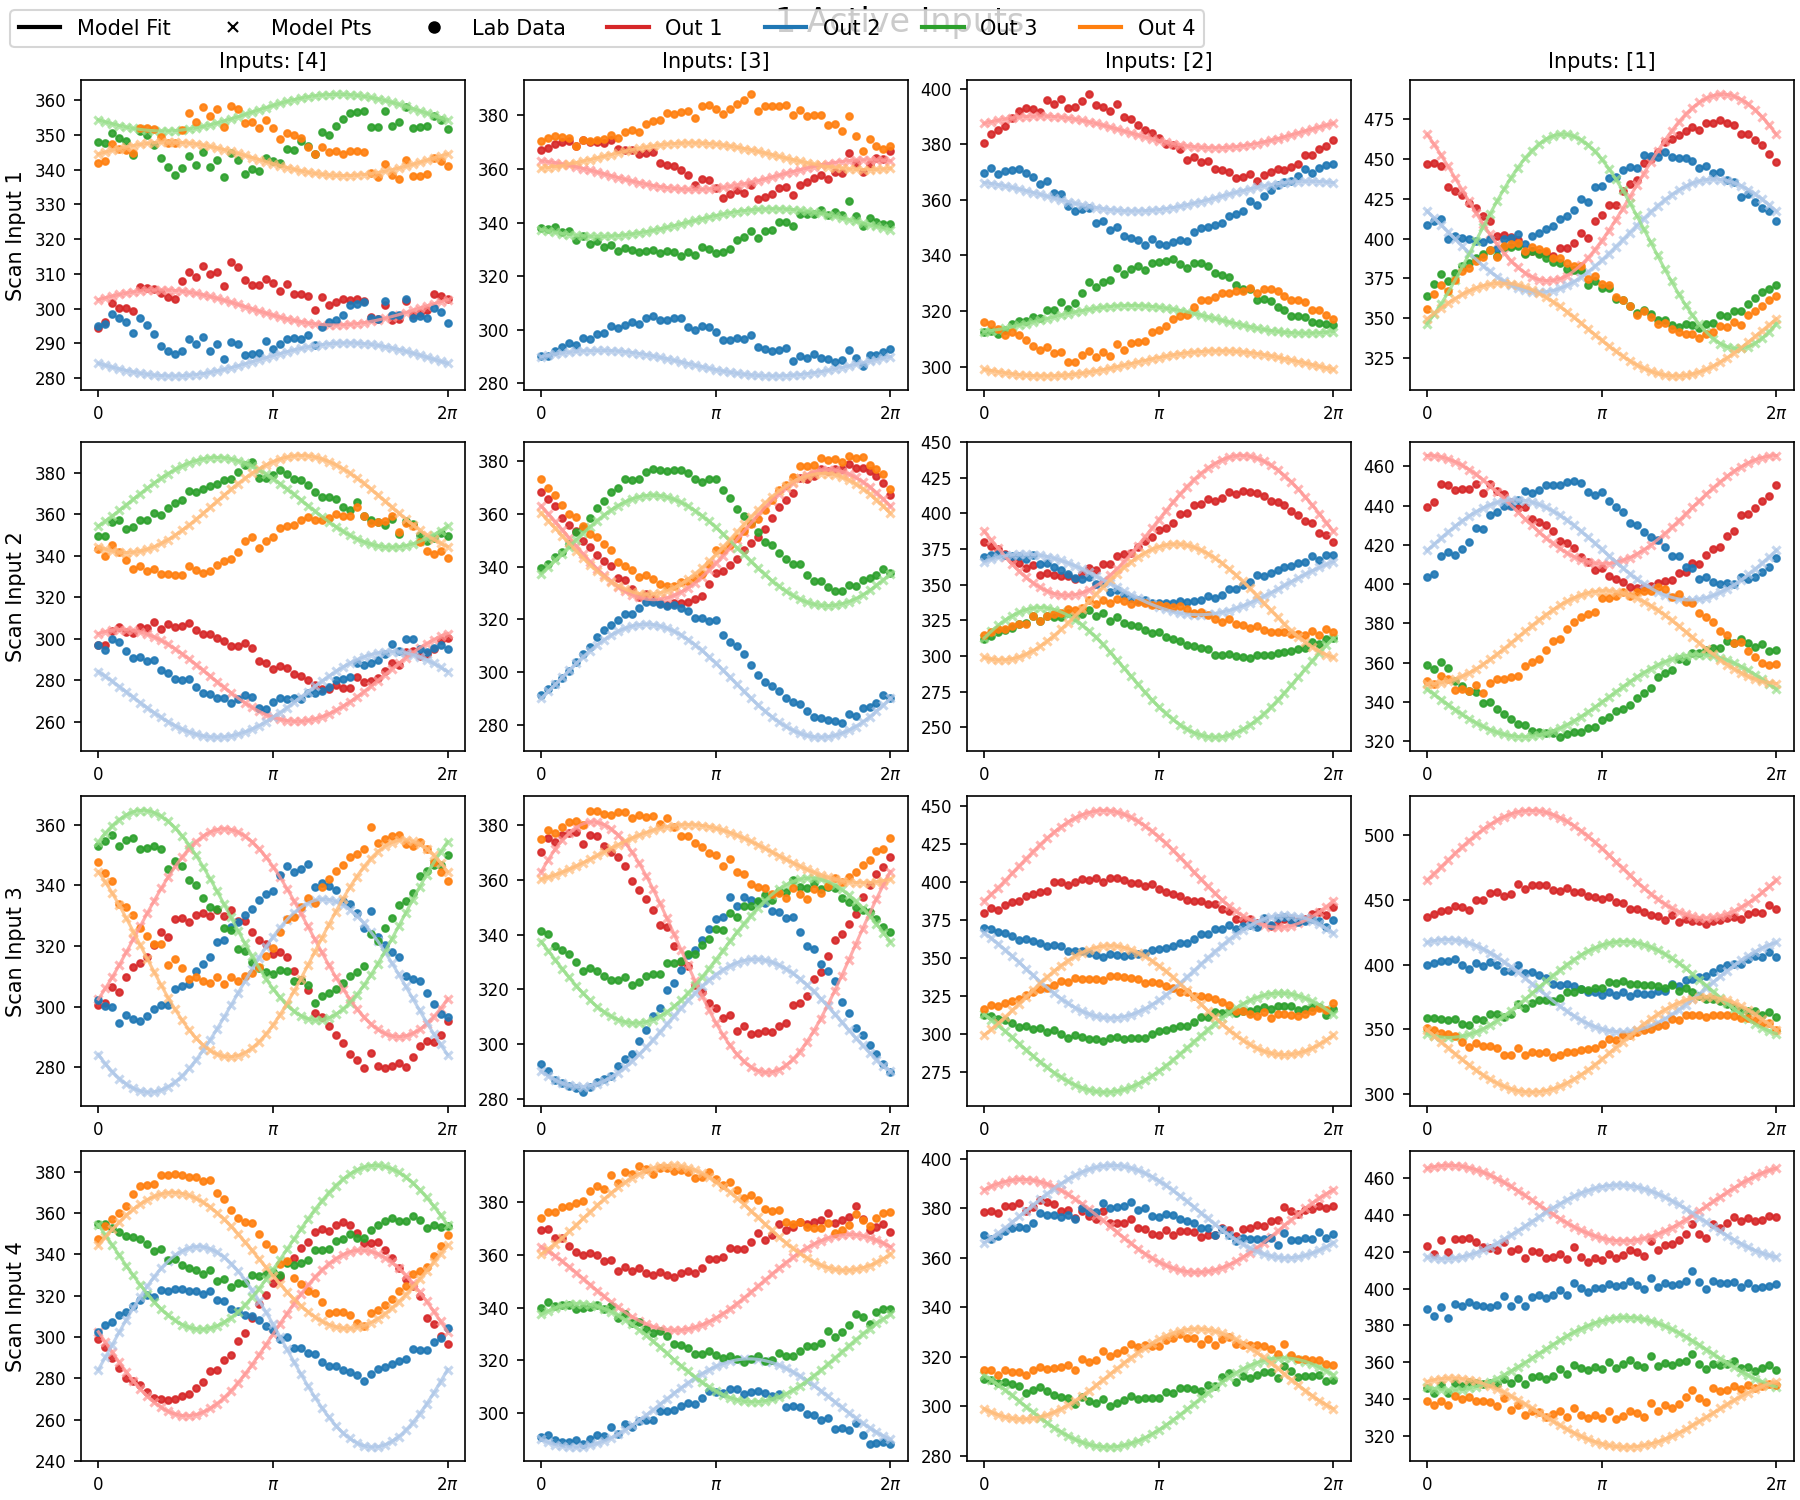
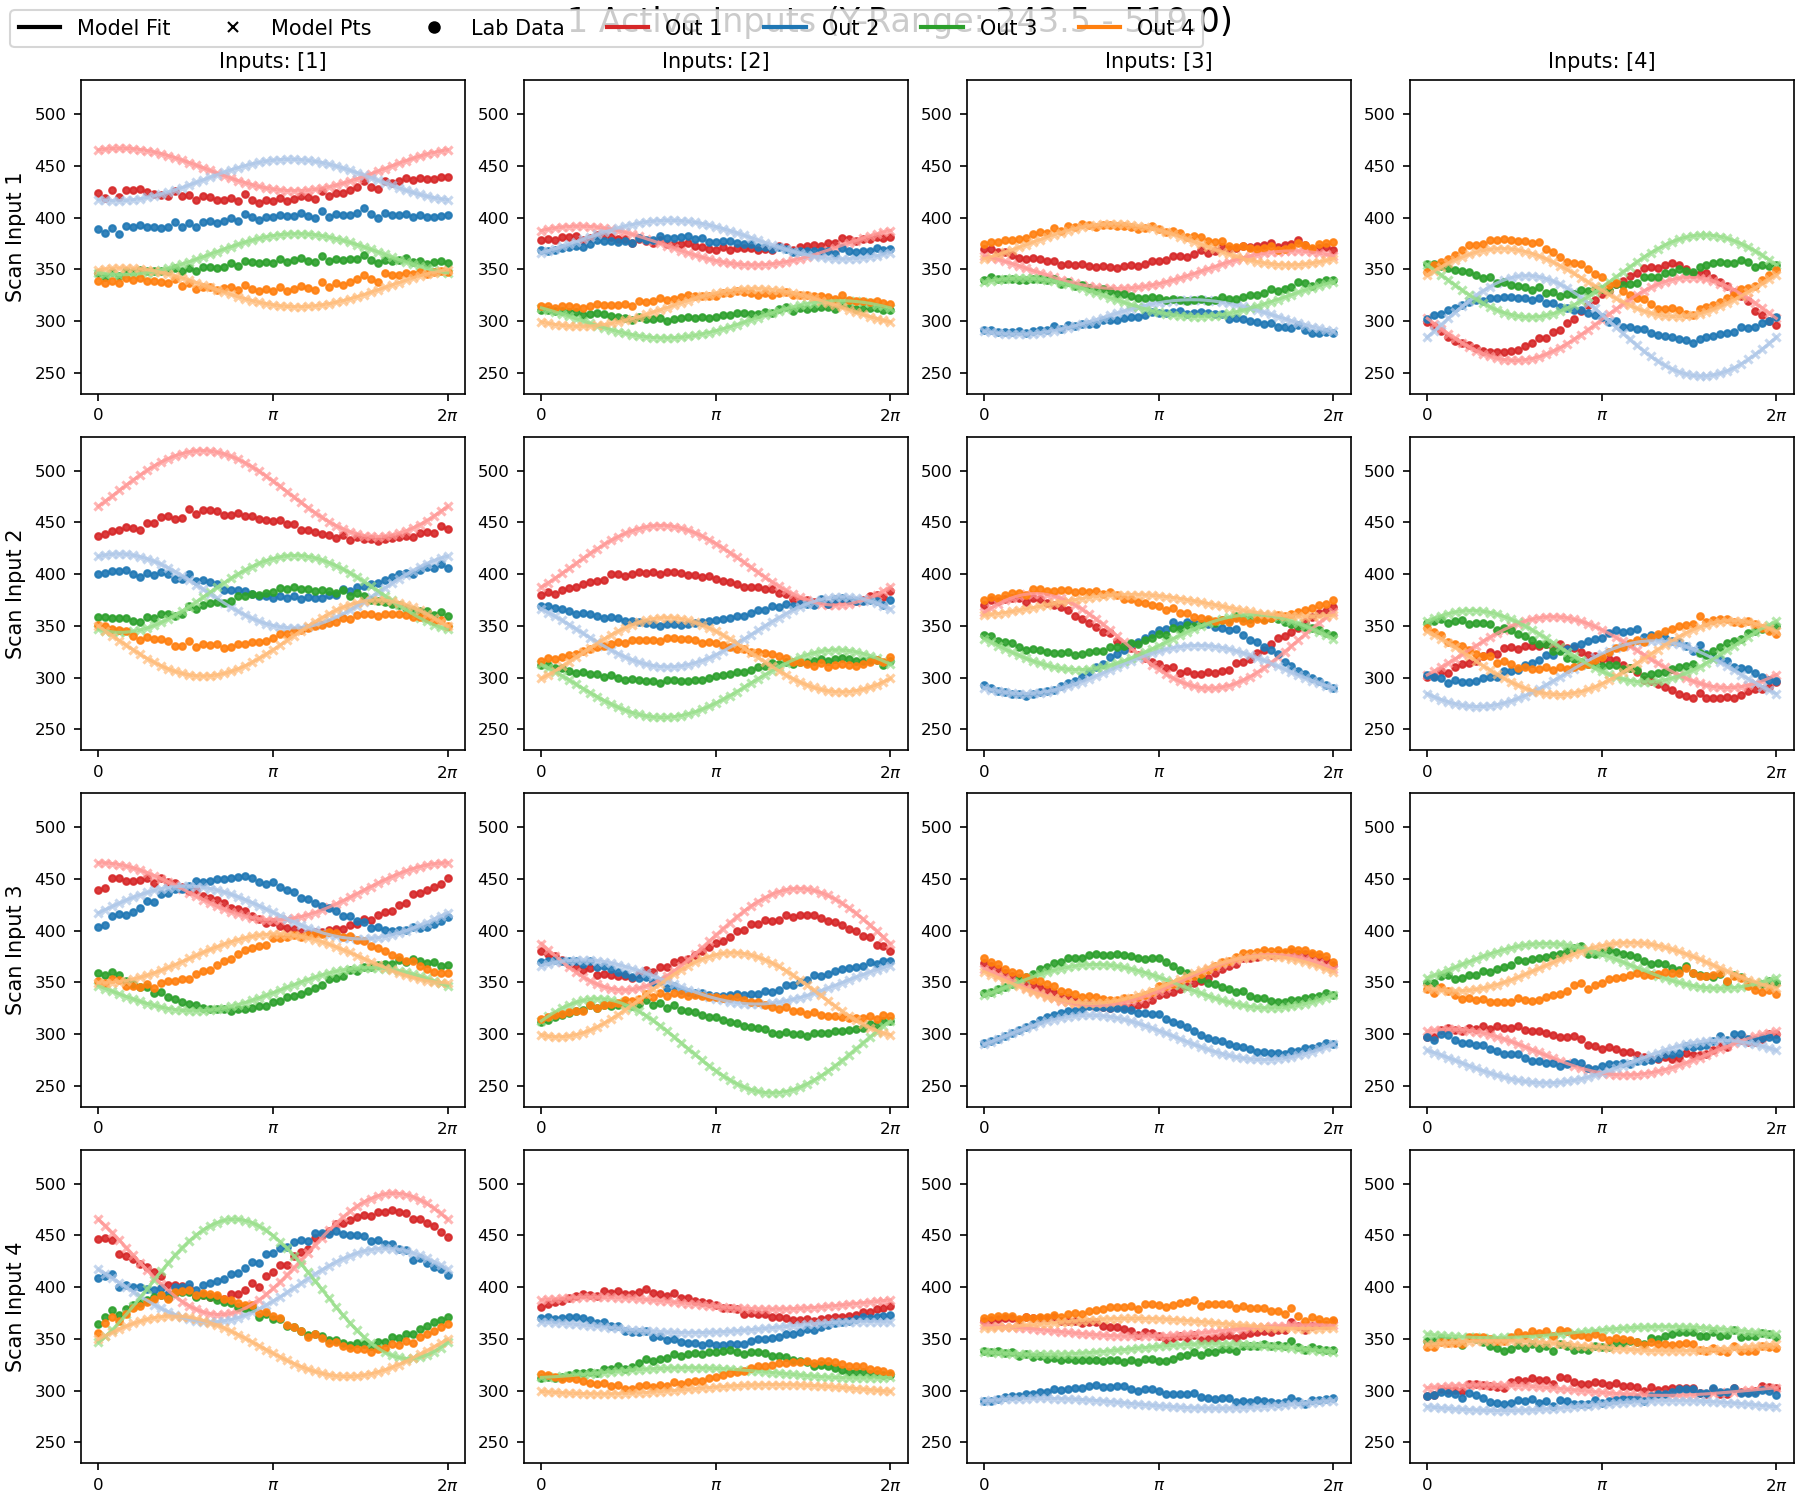
Fix matrix model plots

diff --git a/analysis/validate_model.py b/analysis/validate_model.py
@@ -157,7 +157,8 @@ def generate_summary_plot():
     # Groups: 1 active, 2 active, 3 active, 4 active
     for num_active in range(1, 5):
         # Filter masks
-        group_masks = sorted([m for m in all_masks if sum(m) == num_active], key=lambda m: m)
+        # Sort desc to get (1,0,0,0) before (0,0,0,1)
+        group_masks = sorted([m for m in all_masks if sum(m) == num_active], key=lambda m: m, reverse=True)
         
         if not group_masks:
             print(f"No data for {num_active} active inputs.")
@@ -168,25 +169,71 @@ def generate_summary_plot():
         
         print(f"Generating plot for {num_active} Active Inputs. Grid: {n_rows}x{n_cols}")
         
+        # 2b. Determine Global Y-Limits for this group
+        # Scan through all data in this group to find max AND min intensity
+        max_intensity = float('-inf')
+        min_intensity = float('inf')
+        
+        has_data = False
+        
+        for r in range(n_rows):
+            shifter_idx = r
+            for c, mask in enumerate(group_masks):
+                if shifter_idx in data_map.get(mask, {}):
+                    key = data_map[mask][shifter_idx]
+                    data = raw_data[key]
+                    max_intensity = max(max_intensity, np.max(data))
+                    min_intensity = min(min_intensity, np.min(data))
+                    has_data = True
+                    
+                    # Also check model prediction
+                    n_points = 20 # coarse check
+                    phases = np.linspace(0, 2*np.pi, n_points)
+                    model_p = predict_intensities(mask, shifter_idx, phases)
+                    max_intensity = max(max_intensity, np.max(model_p))
+                    min_intensity = min(min_intensity, np.min(model_p))
+
+        if not has_data:
+            max_intensity = 1.0
+            min_intensity = 0.0
+
+        # Add 5% padding
+        intensity_range = max_intensity - min_intensity
+        if intensity_range == 0: intensity_range = 1.0
+        
+        y_lim_bottom = max(0, min_intensity - 0.05 * intensity_range) # Clamp bottom to 0 if close
+        # Actually user might want to see noise floor even if not 0.
+        # "entre la valeur minimum et maximum"
+        y_lim_bottom = min_intensity - 0.05 * intensity_range
+        y_lim_top = max_intensity + 0.05 * intensity_range
+        
         # 3. Create Figure
         # Width scales with columns
         fig_width = max(5, n_cols * 3)
         fig, axs = plt.subplots(n_rows, n_cols, figsize=(fig_width, n_rows*2.5), constrained_layout=True, squeeze=False)
-        fig.suptitle(f"{num_active} Active Inputs", fontsize=16)
+        fig.suptitle(f"{num_active} Active Inputs (Y-Range: {min_intensity:.1f} - {max_intensity:.1f})", fontsize=16)
         
         # Iterate Row-wise (Shifter) then Col-wise (Mask)
-        for r in range(n_rows): # Shifter 0-3
-            shifter_idx = r
+        # User requested: Input 1 at Top (Label), but Data inverted (Input 4 Data at Top)
+        for r in range(n_rows): # 0, 1, 2, 3
+            # Data: 3 down to 0 (Input 4 -> Input 1)
+            shifter_idx = (n_rows - 1) - r 
+            # Label: 1 up to 4
+            label_idx = r # 0 -> 3
             
             for c, mask in enumerate(group_masks):
                 ax = axs[r, c]
+                
+                # Apply Global Limits
+                ax.set_ylim(y_lim_bottom, y_lim_top)
                 
                 # Setup Axis info
                 active_ids = active_indices_1based(mask)
                 if r == 0:
                     ax.set_title(f"Inputs: {active_ids}", fontsize=10)
                 if c == 0:
-                    ax.set_ylabel(f"Scan Input {r+1}", fontsize=10, rotation=90)
+                    # Label based on Row Position (1 at Top)
+                    ax.set_ylabel(f"Scan Input {label_idx+1}", fontsize=10, rotation=90)
                 
                 # Turn ticks back on
                 # ax.set_xticks([]) 
